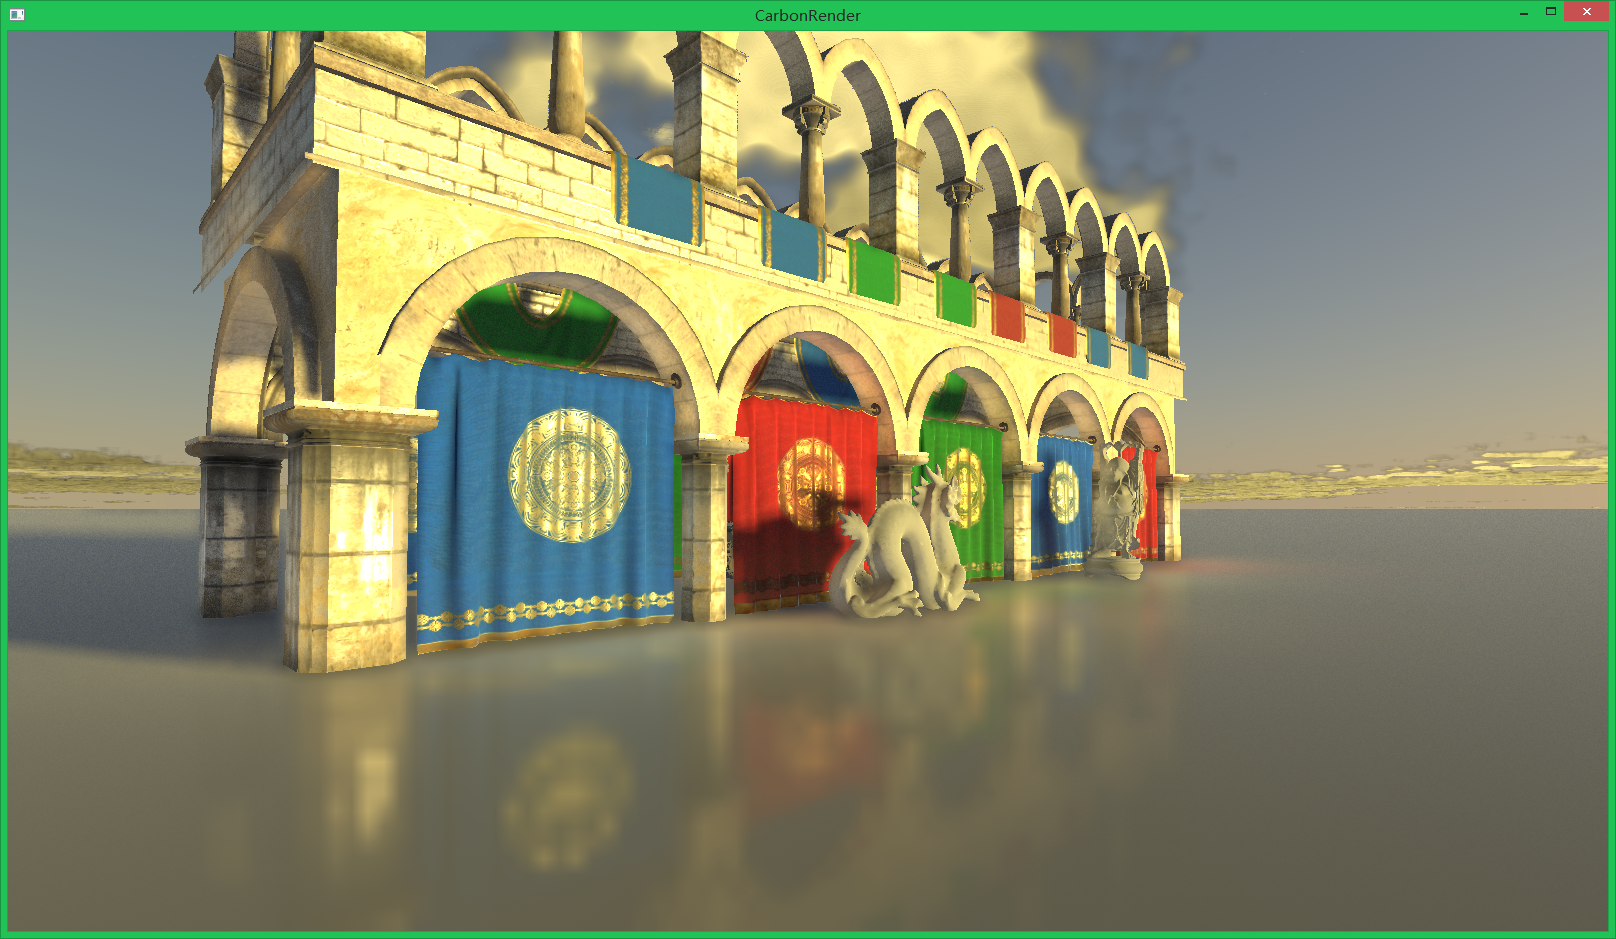
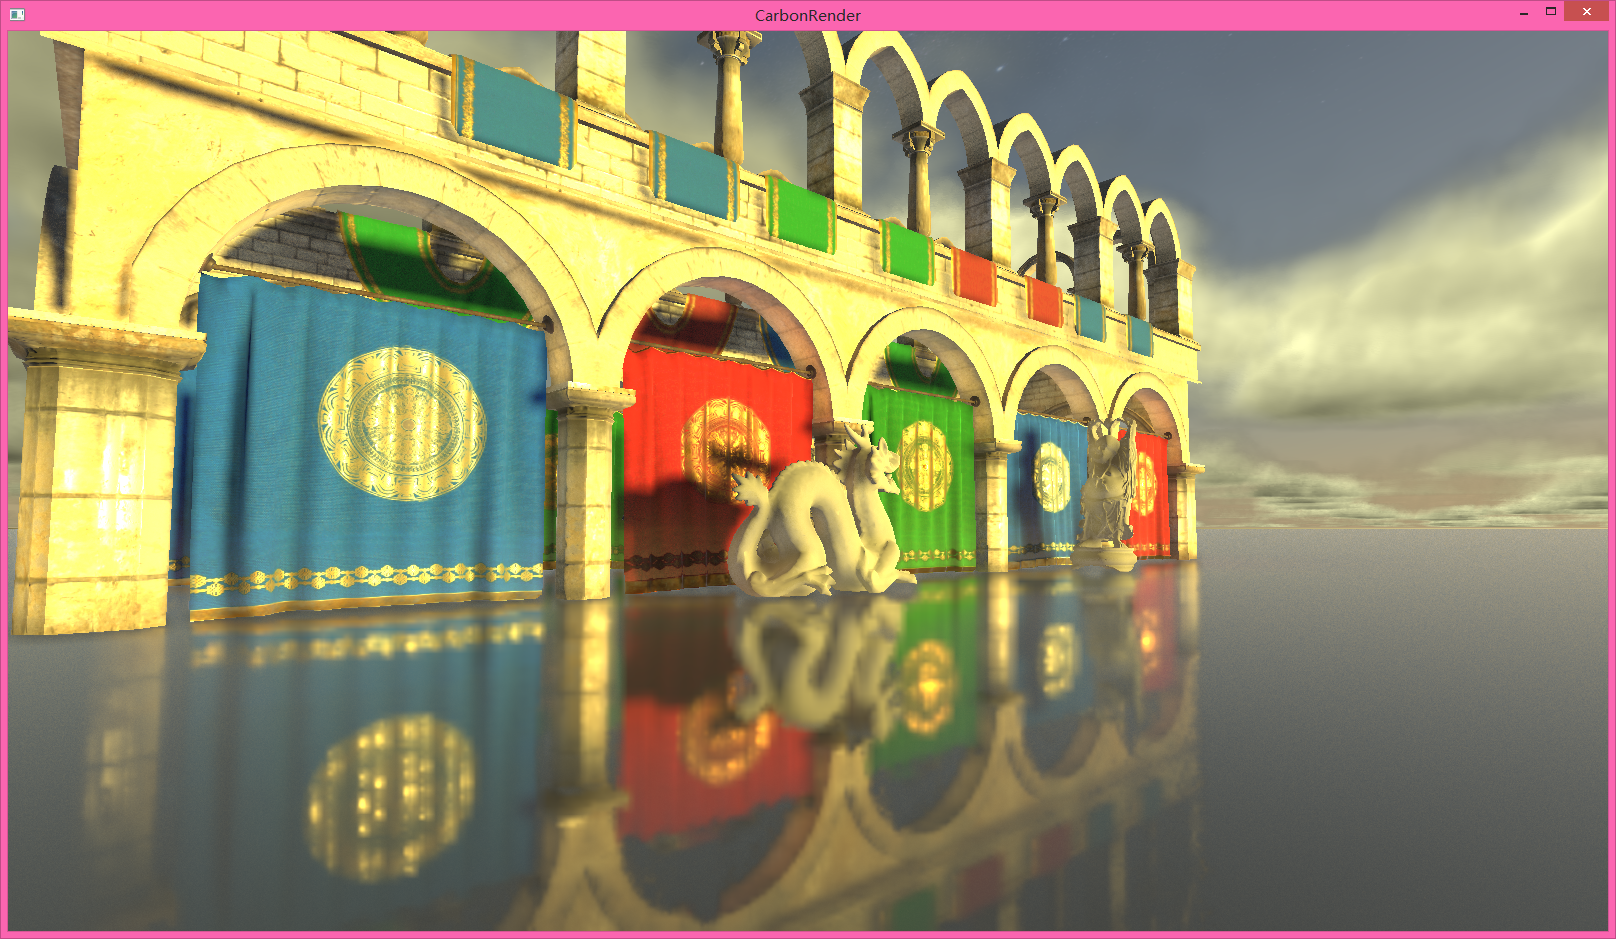
little fix

diff --git a/CarbonRender/Src/CRWeatherSystem.cpp b/CarbonRender/Src/CRWeatherSystem.cpp
@@ -25,7 +25,7 @@ void WeatherSystem::Init()
 	latitude = 0.0f;
 	day = 180;
 	hour = 12.0f;
-	turbidity = 2.0f;
+	turbidity = 4.0f;
 	exposure = 30.0f;
 	timeSpeed = 150.0f;
 	isTimeStop = true;
@@ -189,7 +189,6 @@ void WeatherSystem::AddCloudCoverage(float c)
 	cloudCoverage += c;
 	cloudCoverage = Math::Max(cloudCoverage, 0.0f);
 	cloudCoverage = Math::Min(cloudCoverage, 1.0f);
-	cout << cloudCoverage << endl;
 }
 
 float WeatherSystem::GetCloudCoverage()

diff --git a/CarbonRender/Src/CRTextureManager.cpp b/CarbonRender/Src/CRTextureManager.cpp
@@ -32,8 +32,8 @@ TextureManager::TextureManager()
 	{
 		for (j = 0; j < 8; j++)
 		{
-			S[i][j][0] = (GLubyte)255;
-			S[i][j][1] = (GLubyte)0;
+			S[i][j][0] = (GLubyte)255;//Roughness
+			S[i][j][1] = (GLubyte)0;//Metalic
 			S[i][j][2] = (GLubyte)0;
 		}
 	}

diff --git a/CarbonRender/Inc/CRGLHelper.h b/CarbonRender/Inc/CRGLHelper.h
@@ -1,5 +1,5 @@
-#ifndef GL_HELPER
-#define GL_HELPER
+#ifndef CR_GLHELPER
+#define CR_GLHELPER
 
 #include "..\Inc\CRGloble.h"
 
